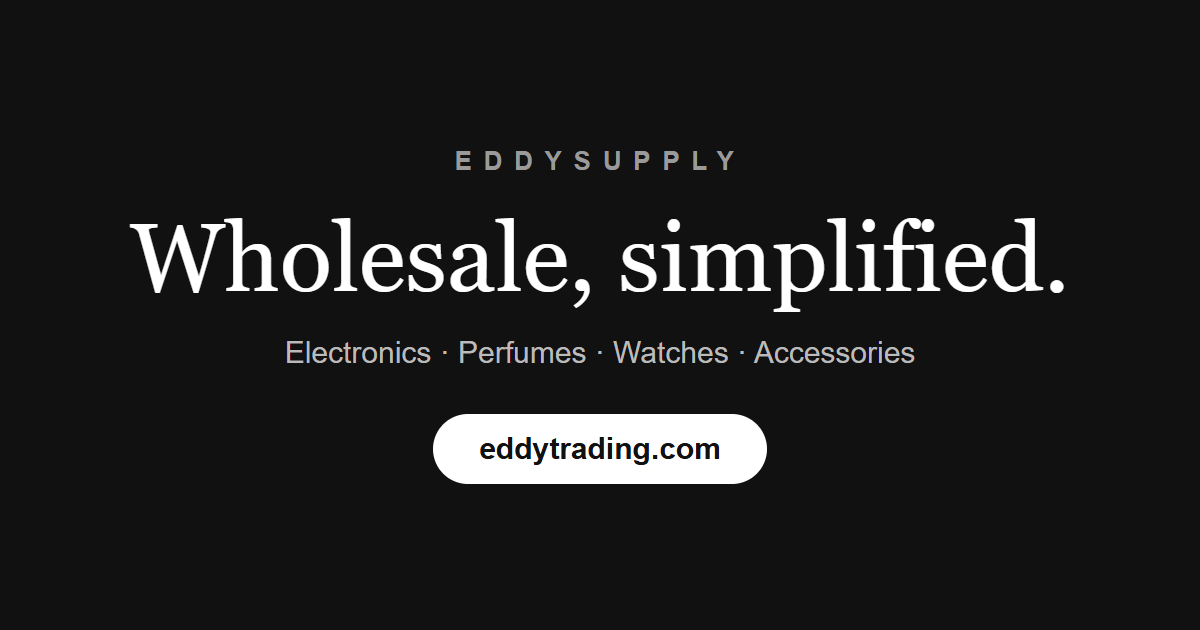
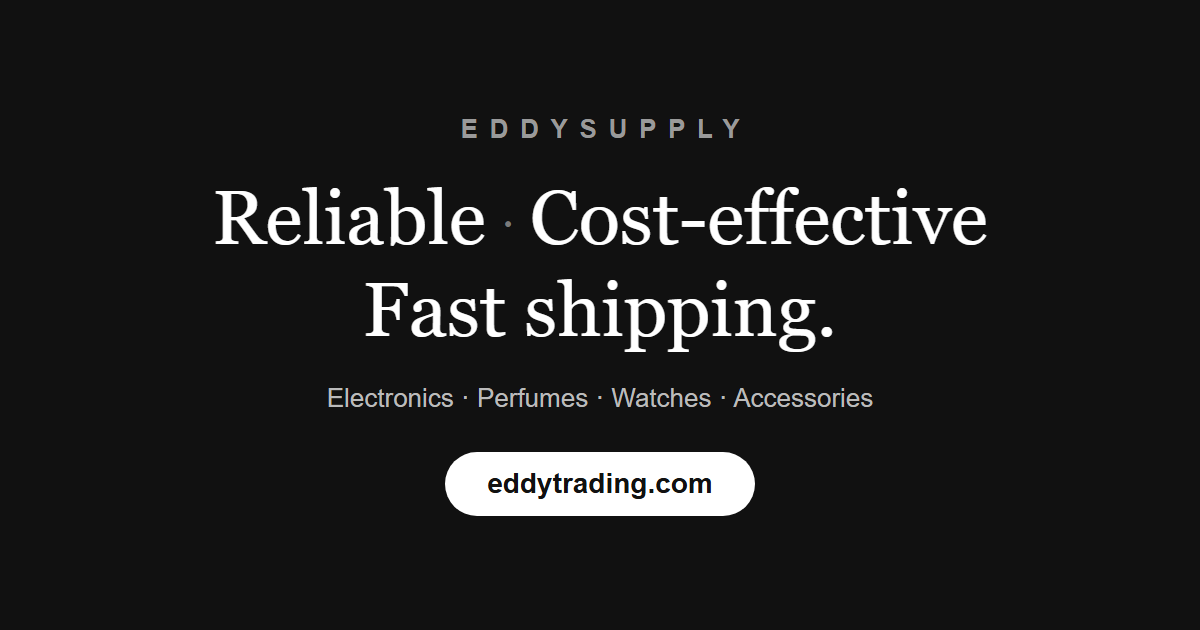
feat: new share card slogan (Reliable · Cost-effective · Fast shipping); brand copy refresh; cache-bust 20261019g

Changed region(s): [[0.0925, 0.3016, 0.8942, 0.573], [0.2775, 0.6032, 0.74, 0.8444], [0.37, 0.181, 0.6167, 0.2714]]

diff --git a/admin.html b/admin.html
@@ -265,7 +265,7 @@
         <div class="gh-row" data-page-node-id="FFA6kaMvDBZX7dIuyfQ3uz"><label data-page-node-id="Cwj3fhvtk6UdlpEV5IJYpv">WhatsApp 拨号号码（自动生成）</label><input data-cfg-wa readonly style="background:#f6f6f4" data-page-node-id="OmGEZP3z5JxvWeql0cVm5b"><span class="help" data-page-node-id="VGFT0VYbWcyPhPOGpj8LfV">由显示号码自动提取数字，用于点击跳转 WhatsApp，无需手动填</span></div>
         <div class="gh-row"><label>备用号码</label><input data-cfg-wabackup placeholder="如 +49 152 2490 1963"><span class="help">显示在页脚「calls &amp; backup」一行，留空则不显示</span></div>
         <div class="gh-row" style="margin-top:18px" data-page-node-id="zG4X3hO7xG3Kg0HdMvxHPt"><label style="font-weight:700" data-page-node-id="c0WBMRgQYj8OrifdRkWWTx">—— 首页首屏文案 ——</label></div>
-        <div class="gh-row" data-page-node-id="dfjoJRo8ReICFxe3RQHFqS"><label data-page-node-id="qwtYoGTEbyEnQLiHSg3soI">顶部角标</label><input data-cfg-herobadge placeholder="如 EddySupply · Product Finder" data-page-node-id="8LA5H6J7TwKyc5JZAXM4jP"><span class="help" data-page-node-id="dDZnq4c6pcb5SvG9t2Rjlm">大标题上方的小字标签</span></div>
+        <div class="gh-row" data-page-node-id="dfjoJRo8ReICFxe3RQHFqS"><label data-page-node-id="qwtYoGTEbyEnQLiHSg3soI">顶部角标</label><input data-cfg-herobadge placeholder="如 EddySupply · genuine supplier" data-page-node-id="8LA5H6J7TwKyc5JZAXM4jP"><span class="help" data-page-node-id="dDZnq4c6pcb5SvG9t2Rjlm">大标题上方的小字标签</span></div>
         <div class="gh-row" data-page-node-id="BTG6MMlKmeQUTLEc92DMUC"><label data-page-node-id="uAGwIEs9VfYNHKgmN6Gy60">大标题（第一行）</label><input data-cfg-herotitle placeholder="如 Wholesale products" data-page-node-id="yMsBGRL7eWfvzzzVbXSrEh"></div>
         <div class="gh-row" data-page-node-id="HT7Q4IcUXzc1PKuocWc3zK"><label data-page-node-id="ilmcRjX9MopYmkMyPcvGYk">大标题（第二行·强调色）</label><input data-cfg-heroaccent placeholder="如 made simple." data-page-node-id="A1cOFktMaoXUBTeoZEb83R"><span class="help" data-page-node-id="9EOcW2ZOZo3czCc1CW8uXS">这一行会以强调色斜体显示</span></div>
         <div class="gh-row" data-page-node-id="0kHDmuL0m6BwBDhloMtnpp"><label data-page-node-id="ykDTSJeqOf6NEKRnEQh9hz">副标题</label><textarea data-cfg-herosub rows="3" placeholder="大标题下方的一段介绍文字"></textarea></div>
@@ -308,7 +308,7 @@
 
   </main>
 
-  <script src="js/data.js?v=20261019e"></script>
+  <script src="js/data.js?v=20261019g"></script>
   <script>
 /* ============================================================
  *  产品管理后台逻辑（admin.html）
@@ -1763,7 +1763,7 @@
     var em = $('[data-cfg-email]');
     if (em) em.value = CFG.contactEmail || '';
     var hb = $('[data-cfg-herobadge]');
-    if (hb) hb.value = CFG.heroBadge || ((CFG.brand || '') + ' · Product Finder');
+    if (hb) hb.value = CFG.heroBadge || ((CFG.brand || '') + ' · genuine supplier');
     var ht = $('[data-cfg-herotitle]');
     if (ht) ht.value = CFG.heroTitle || '';
     var ha = $('[data-cfg-heroaccent]');

diff --git a/index.html b/index.html
@@ -3,20 +3,20 @@
 <head>
   <meta charset="utf-8">
   <meta name="viewport" content="width=device-width, initial-scale=1">
-  <title>EddySupply — Wholesale Product Finder</title>
-  <meta name="description" content="Discover wholesale electronics, perfumes, watches and accessories from EddySupply — then order in one tap on WhatsApp.">
-  <meta property="og:title" content="EddySupply — Wholesale Product Finder">
-  <meta property="og:description" content="Discover wholesale electronics, perfumes, watches and accessories from EddySupply — then order in one tap on WhatsApp.">
+  <title>EddySupply — a real, reliable supplier that helps your business thrive</title>
+  <meta name="description" content="EddySupply is a genuine, reliable wholesale supplier of electronics, perfumes, watches and accessories — build your inquiry list and get a fast quote on WhatsApp.">
+  <meta property="og:title" content="EddySupply — a real, reliable supplier that helps your business thrive">
+  <meta property="og:description" content="Genuine, reliable wholesale supply of electronics, perfumes, watches and accessories — build your inquiry list and get a fast quote on WhatsApp.">
   <meta property="og:type" content="website">
   <meta name="twitter:card" content="summary_large_image">
-  <meta property="og:image" content="https://eddytrading.com/og-image.png">
+  <meta property="og:image" content="https://eddytrading.com/og-image.png?v=20261019g">
   <meta property="og:url" content="https://eddytrading.com/">
   <link rel="canonical" href="https://eddytrading.com/">
   <link rel="icon" type="image/png" sizes="32x32" href="/favicon.png">
   <link rel="apple-touch-icon" href="/apple-touch-icon.png">
   <link rel="preload" as="image" href="img/cat/perfumes.png">
   <link rel="stylesheet" href="css/fonts.css">
-  <link rel="stylesheet" href="css/style.css?v=20261019e">
+  <link rel="stylesheet" href="css/style.css?v=20261019g">
   <script data-goatcounter="https://axeltrading.goatcounter.com/count"
           async src="//gc.zgo.at/count.js"></script>
 </head>
@@ -33,7 +33,7 @@
     <div class="hero-inner">
       <div class="hero-badge animate-in">
         <span class="dot"></span>
-        <span data-hero-badge>EddySupply · Product Finder</span>
+        <span data-hero-badge>EddySupply · genuine supplier</span>
       </div>
 
       <h1 class="animate-in d1" data-hero-title></h1>
@@ -154,9 +154,9 @@
     © <span data-year>2026</span> EddySupply. <span data-i18n="footer_chat">Chat with us on WhatsApp</span>
   </footer>
 
-  <script src="js/data.js?v=20261019e"></script>
-  <script src="js/i18n.js?v=20261019e"></script>
-  <script src="js/app.js?v=20261019e"></script>
+  <script src="js/data.js?v=20261019g"></script>
+  <script src="js/i18n.js?v=20261019g"></script>
+  <script src="js/app.js?v=20261019g"></script>
   <script>
     var y = document.querySelector('[data-year]');
     if (y) y.textContent = new Date().getFullYear();

diff --git a/js/data.js b/js/data.js
@@ -9,7 +9,7 @@
 
 window.SITE_CONFIG = {
   "brand": "Axeltrading",
-  "tagline": "Wholesale Product Finder",
+  "tagline": "Reliable quality product supply",
   "contactName": "Eddy",
   "whatsapp": "4915224901963",
   "whatsappDisplay": "+49 152 2490 1963",
@@ -25,13 +25,13 @@ window.SITE_CONFIG = {
   "greeting": "Hi Eddy! I'd like some information about your products.",
   "inquiryIntro": "Hi Eddy! I'd like a quote for the following:",
   "inquiryOutro": "Please send me pricing, MOQ and shipping details.",
-  "heroBadge": "Axeltrading · reliable supplier",
-  "heroTitle": "Wholesale products",
-  "heroTitleAccent": "Made Effortless",
-  "heroSubtitle": "Explore the full catalog, curate your inquiry list, and send it to Eddy in a single message to get a fast quote.",
-  "heroTitleEs": "Productos al por mayor",
-  "heroTitleAccentEs": "Más fácil que nunca",
-  "heroSubtitleEs": "Explora el catálogo, arma tu lista de cotización y mándasela a Eddy en un solo mensaje — te enviamos la cotización en 24 h.",
+  "heroBadge": "EddySupply · genuine supplier",
+  "heroTitle": "Reliable quality,",
+  "heroTitleAccent": "real supply.",
+  "heroSubtitle": "EddySupply is a genuine, reliable supplier that helps your business thrive — browse the catalog, build your list, and get a fast quote on WhatsApp.",
+  "heroTitleEs": "Calidad fiable,",
+  "heroTitleAccentEs": "suministro real.",
+  "heroSubtitleEs": "EddySupply es un proveedor auténtico y fiable que ayuda a crecer a tu negocio — explora el catálogo, arma tu lista y recibe una cotización rápida por WhatsApp.",
   "searchPlaceholder": "Search product, brand, category…",
   "searchPlaceholderEs": "Busca producto, marca o categoría…",
   "seoDescription": "Discover wholesale electronics, perfumes, watches and accessories from EddySupply — then order in one tap on WhatsApp."

diff --git a/category.html b/category.html
@@ -5,13 +5,13 @@
   <meta name="viewport" content="width=device-width, initial-scale=1">
   <title>Collection — EddySupply</title>
   <meta name="description" content="Browse a wholesale collection and build your inquiry list in one tap.">
-  <meta property="og:image" content="https://eddytrading.com/og-image.png">
+  <meta property="og:image" content="https://eddytrading.com/og-image.png?v=20261019g">
   <meta property="og:url" content="https://eddytrading.com/">
   <link rel="canonical" href="https://eddytrading.com/">
   <link rel="icon" type="image/png" sizes="32x32" href="/favicon.png">
   <link rel="apple-touch-icon" href="/apple-touch-icon.png">
   <link rel="stylesheet" href="css/fonts.css">
-  <link rel="stylesheet" href="css/style.css?v=20261019e">
+  <link rel="stylesheet" href="css/style.css?v=20261019g">
   <script data-goatcounter="https://axeltrading.goatcounter.com/count"
           async src="//gc.zgo.at/count.js"></script>
 </head>
@@ -25,9 +25,9 @@
     © <span data-year>2026</span> EddySupply. Chat with us on WhatsApp · +49 152 2490 1963
   </footer>
 
-  <script src="js/data.js?v=20261019e"></script>
-  <script src="js/i18n.js?v=20261019e"></script>
-  <script src="js/app.js?v=20261019e"></script>
+  <script src="js/data.js?v=20261019g"></script>
+  <script src="js/i18n.js?v=20261019g"></script>
+  <script src="js/app.js?v=20261019g"></script>
   <script>
     var y = document.querySelector('[data-year]');
     if (y) y.textContent = new Date().getFullYear();

diff --git a/product.html b/product.html
@@ -5,13 +5,13 @@
   <meta name="viewport" content="width=device-width, initial-scale=1">
   <title>Product — EddySupply</title>
   <meta name="description" content="Product details, specifications and one-tap WhatsApp inquiry.">
-  <meta property="og:image" content="https://eddytrading.com/og-image.png">
+  <meta property="og:image" content="https://eddytrading.com/og-image.png?v=20261019g">
   <meta property="og:url" content="https://eddytrading.com/">
   <link rel="canonical" href="https://eddytrading.com/">
   <link rel="icon" type="image/png" sizes="32x32" href="/favicon.png">
   <link rel="apple-touch-icon" href="/apple-touch-icon.png">
   <link rel="stylesheet" href="css/fonts.css">
-  <link rel="stylesheet" href="css/style.css?v=20261019e">
+  <link rel="stylesheet" href="css/style.css?v=20261019g">
   <script data-goatcounter="https://axeltrading.goatcounter.com/count"
           async src="//gc.zgo.at/count.js"></script>
 </head>
@@ -27,9 +27,9 @@
     © <span data-year>2026</span> EddySupply. Chat with us on WhatsApp · +49 152 2490 1963
   </footer>
 
-  <script src="js/data.js?v=20261019e"></script>
-  <script src="js/i18n.js?v=20261019e"></script>
-  <script src="js/app.js?v=20261019e"></script>
+  <script src="js/data.js?v=20261019g"></script>
+  <script src="js/i18n.js?v=20261019g"></script>
+  <script src="js/app.js?v=20261019g"></script>
   <script>
     var y = document.querySelector('[data-year]');
     if (y) y.textContent = new Date().getFullYear();

diff --git a/about.html b/about.html
@@ -9,13 +9,13 @@
   <meta property="og:description" content="Who we are and how we work: MOQ, samples, shipping, payment and ordering.">
   <meta property="og:type" content="website">
   <meta name="twitter:card" content="summary_large_image">
-  <meta property="og:image" content="https://eddytrading.com/og-image.png">
+  <meta property="og:image" content="https://eddytrading.com/og-image.png?v=20261019g">
   <meta property="og:url" content="https://eddytrading.com/about.html">
   <link rel="canonical" href="https://eddytrading.com/about.html">
   <link rel="icon" type="image/png" sizes="32x32" href="/favicon.png">
   <link rel="apple-touch-icon" href="/apple-touch-icon.png">
   <link rel="stylesheet" href="css/fonts.css">
-  <link rel="stylesheet" href="css/style.css?v=20261019e">
+  <link rel="stylesheet" href="css/style.css?v=20261019g">
   <script data-goatcounter="https://axeltrading.goatcounter.com/count"
           async src="//gc.zgo.at/count.js"></script>
 </head>
@@ -324,8 +324,8 @@
 
   <footer class="site-footer"></footer>
 
-  <script src="js/data.js?v=20261019e"></script>
-  <script src="js/i18n.js?v=20261019e"></script>
-  <script src="js/app.js?v=20261019e"></script>
+  <script src="js/data.js?v=20261019g"></script>
+  <script src="js/i18n.js?v=20261019g"></script>
+  <script src="js/app.js?v=20261019g"></script>
 </body>
 </html>

diff --git a/js/app.js b/js/app.js
@@ -1407,7 +1407,7 @@
     var subEl = $('[data-hero-sub]');
     if (subEl) subEl.textContent = lang === 'es' && CFG.heroSubtitleEs ? CFG.heroSubtitleEs : CFG.heroSubtitle;
     var badgeEl = $('[data-hero-badge]');
-    if (badgeEl) badgeEl.textContent = CFG.heroBadge || (CFG.brand + ' · Product Finder');
+    if (badgeEl) badgeEl.textContent = CFG.heroBadge || (CFG.brand + ' · genuine supplier');
     var phEl = $('[data-search-input]');
     if (phEl) {
       var narrow = window.matchMedia && window.matchMedia('(max-width: 639px)').matches;
